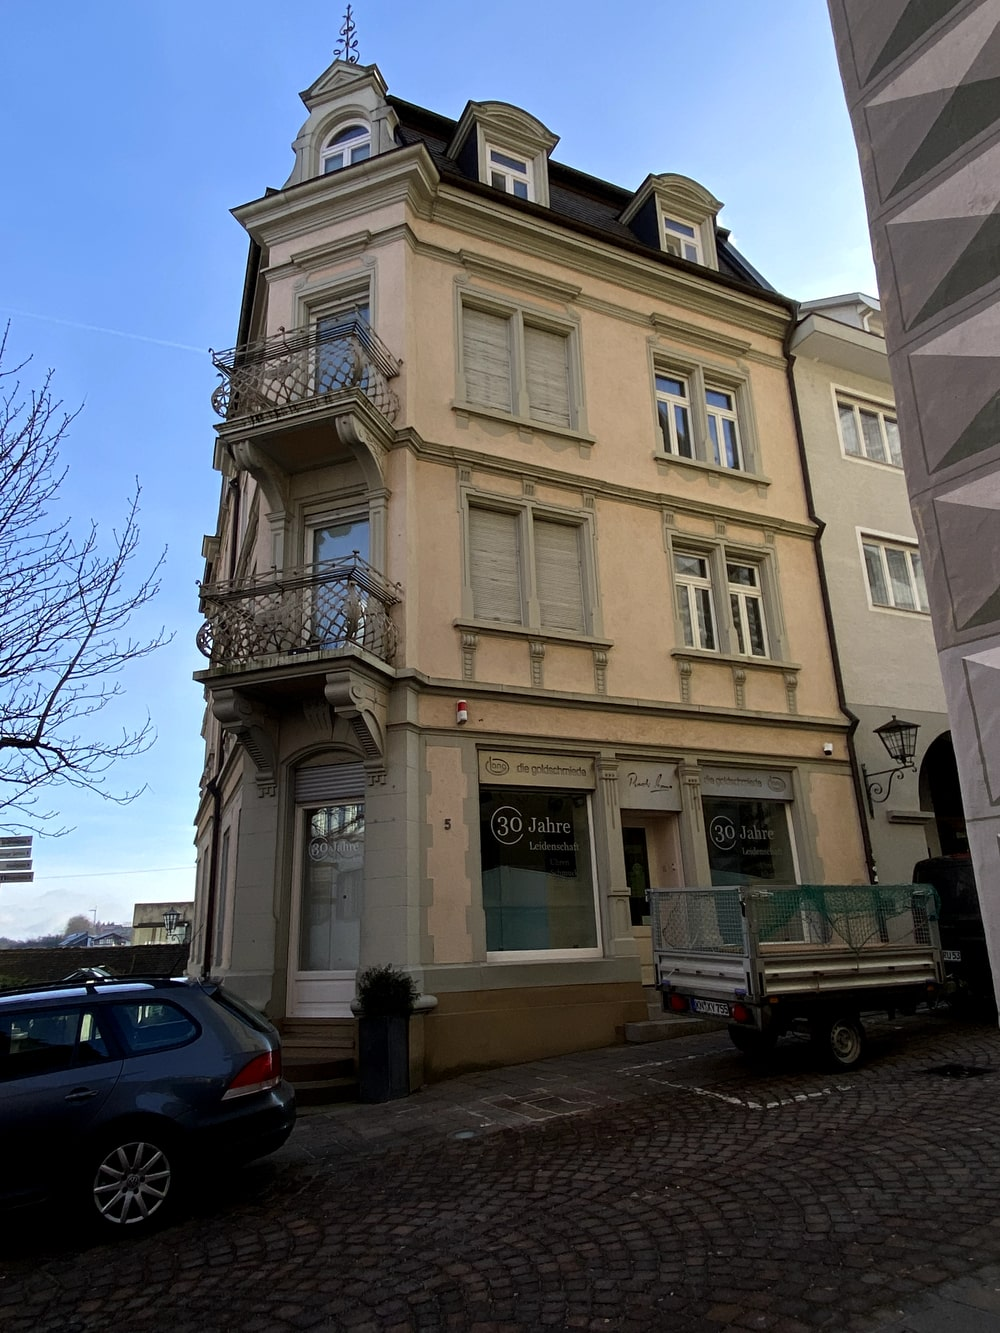
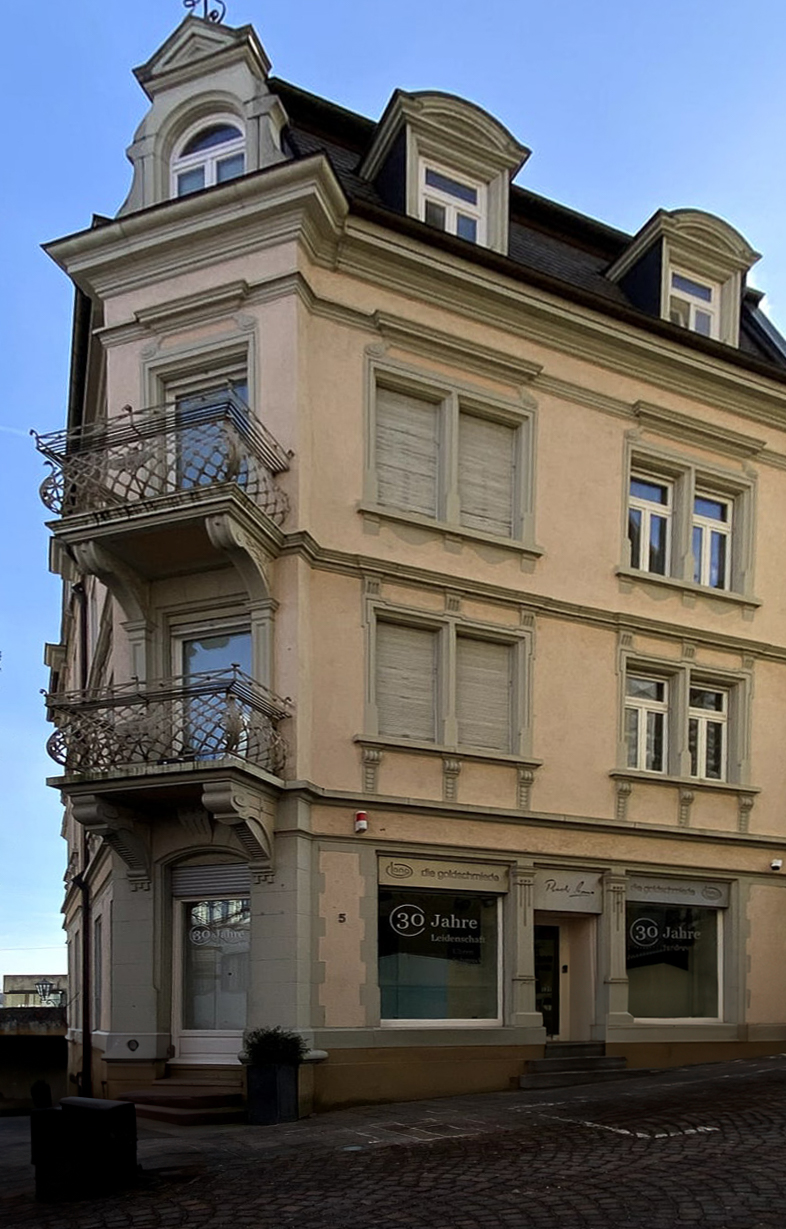
fixing preview photos

diff --git a/_site/index.html b/_site/index.html
@@ -19,7 +19,7 @@
         <div class="container-img">
             
             <a class="img-link" href="/posts/kornhaus-engen/">
-                <img id="transition-inside" class="carousel-item" src="/assets/images/post-1-img/post-1-img-1-1.jpg" alt="Ein altes Haus, welches scheunenähnlich ist und ein treppenartiges Dach hat.">
+                <img id="transition-inside" class="carousel-item" src="/assets/images/post-1-img/post-1-img-1-1.jpg" alt="Ein altes Haus, welches scheunenähnlich ist undein treppenartiges Dach hat.">
             </a>
             
         </div>
@@ -35,7 +35,7 @@
         <div class="container-img">
             
             <a class="img-link" href="/posts/golschmiede-lang-engen/">
-                <img id="transition-inside" class="carousel-item" src="/assets/images/post-3-img/jpg/post-3-img-1-1.jpg" alt="Ein hohes Eckgebäude. Im unteresten Stockwerk befindet sich ein Laden. Die Ecke ist wie abgeschnitten und dort befindet sihc der Eingang mit Stufen zum leerstehenden Geschäft.">
+                <img id="transition-inside" class="carousel-item" src="/assets/images/post-3-img/jpg/post-3-img-1.jpg" alt="Ein hohes Eckgebäude. Im unteresten Stockwerk befindet sich ein Laden. Die Ecke ist wie abgeschnitten und dort befindet sihc der Eingang mit Stufen zum leerstehenden Geschäft.">
             </a>
             
         </div>
@@ -43,7 +43,7 @@
         <div class="container-img">
             
             <a class="img-link" href="/posts/baeckerei-engen/">
-                <img id="transition-inside" class="carousel-item" src="/assets/images/post-4-img/jpg/post-4-img-1.jpg" alt="Ein rosafarbenes Eckhaus in einer Altstadt. Im untersten Stock ist ein Schaufenster, welches nach vorne raus steht. Rechts davon befindet sich der Eingang. Oben rechts ist eine Hausdekoration aus Metall mit einem Tier, dass eine Brezel vertilgt.">
+                <img id="transition-inside" class="carousel-item" src="/assets/images/post-4-img/jpg/post-4-img-1-2.jpg" alt="Ein rosafarbenes Eckhaus in einer Altstadt. Im untersten Stock ist ein Schaufenster, welches nach vorne raus steht. Rechts davon befindet sich der Eingang. Oben rechts ist eine Hausdekoration aus Metall mit einem Tier, dass eine Brezel vertilgt.">
             </a>
             
         </div>

diff --git a/_site/submit/index.html b/_site/submit/index.html
@@ -17,7 +17,7 @@
     <div class="carousel">
 <p><div class="container-img"></p>
 <p><a class="img-link" href="/posts/kornhaus-engen/">
-<img id="transition-inside" class="carousel-item" src="/assets/images/post-1-img/post-1-img-1-1.jpg" alt="Ein altes Haus, welches scheunenähnlich ist und ein treppenartiges Dach hat.">
+<img id="transition-inside" class="carousel-item" src="/assets/images/post-1-img/post-1-img-1-1.jpg" alt="Ein altes Haus, welches scheunenähnlich ist undein treppenartiges Dach hat.">
 </a></p>
 <p></div></p>
 <p><div class="container-img"></p>
@@ -27,12 +27,12 @@
 <p></div></p>
 <p><div class="container-img"></p>
 <p><a class="img-link" href="/posts/golschmiede-lang-engen/">
-<img id="transition-inside" class="carousel-item" src="/assets/images/post-3-img/jpg/post-3-img-1-1.jpg" alt="Ein hohes Eckgebäude. Im unteresten Stockwerk befindet sich ein Laden. Die Ecke ist wie abgeschnitten und dort befindet sihc der Eingang mit Stufen zum leerstehenden Geschäft.">
+<img id="transition-inside" class="carousel-item" src="/assets/images/post-3-img/jpg/post-3-img-1.jpg" alt="Ein hohes Eckgebäude. Im unteresten Stockwerk befindet sich ein Laden. Die Ecke ist wie abgeschnitten und dort befindet sihc der Eingang mit Stufen zum leerstehenden Geschäft.">
 </a></p>
 <p></div></p>
 <p><div class="container-img"></p>
 <p><a class="img-link" href="/posts/baeckerei-engen/">
-<img id="transition-inside" class="carousel-item" src="/assets/images/post-4-img/jpg/post-4-img-1.jpg" alt="Ein rosafarbenes Eckhaus in einer Altstadt. Im untersten Stock ist ein Schaufenster, welches nach vorne raus steht. Rechts davon befindet sich der Eingang. Oben rechts ist eine Hausdekoration aus Metall mit einem Tier, dass eine Brezel vertilgt.">
+<img id="transition-inside" class="carousel-item" src="/assets/images/post-4-img/jpg/post-4-img-1-2.jpg" alt="Ein rosafarbenes Eckhaus in einer Altstadt. Im untersten Stock ist ein Schaufenster, welches nach vorne raus steht. Rechts davon befindet sich der Eingang. Oben rechts ist eine Hausdekoration aus Metall mit einem Tier, dass eine Brezel vertilgt.">
 </a></p>
 <p></div></p>
 <p></div></p>

diff --git a/_site/success/index.html b/_site/success/index.html
@@ -17,7 +17,7 @@
     <div class="carousel">
 <p><div class="container-img"></p>
 <p><a class="img-link" href="/posts/kornhaus-engen/">
-<img id="transition-inside" class="carousel-item" src="/assets/images/post-1-img/post-1-img-1-1.jpg" alt="Ein altes Haus, welches scheunenähnlich ist und ein treppenartiges Dach hat.">
+<img id="transition-inside" class="carousel-item" src="/assets/images/post-1-img/post-1-img-1-1.jpg" alt="Ein altes Haus, welches scheunenähnlich ist undein treppenartiges Dach hat.">
 </a></p>
 <p></div></p>
 <p><div class="container-img"></p>
@@ -27,12 +27,12 @@
 <p></div></p>
 <p><div class="container-img"></p>
 <p><a class="img-link" href="/posts/golschmiede-lang-engen/">
-<img id="transition-inside" class="carousel-item" src="/assets/images/post-3-img/jpg/post-3-img-1-1.jpg" alt="Ein hohes Eckgebäude. Im unteresten Stockwerk befindet sich ein Laden. Die Ecke ist wie abgeschnitten und dort befindet sihc der Eingang mit Stufen zum leerstehenden Geschäft.">
+<img id="transition-inside" class="carousel-item" src="/assets/images/post-3-img/jpg/post-3-img-1.jpg" alt="Ein hohes Eckgebäude. Im unteresten Stockwerk befindet sich ein Laden. Die Ecke ist wie abgeschnitten und dort befindet sihc der Eingang mit Stufen zum leerstehenden Geschäft.">
 </a></p>
 <p></div></p>
 <p><div class="container-img"></p>
 <p><a class="img-link" href="/posts/baeckerei-engen/">
-<img id="transition-inside" class="carousel-item" src="/assets/images/post-4-img/jpg/post-4-img-1.jpg" alt="Ein rosafarbenes Eckhaus in einer Altstadt. Im untersten Stock ist ein Schaufenster, welches nach vorne raus steht. Rechts davon befindet sich der Eingang. Oben rechts ist eine Hausdekoration aus Metall mit einem Tier, dass eine Brezel vertilgt.">
+<img id="transition-inside" class="carousel-item" src="/assets/images/post-4-img/jpg/post-4-img-1-2.jpg" alt="Ein rosafarbenes Eckhaus in einer Altstadt. Im untersten Stock ist ein Schaufenster, welches nach vorne raus steht. Rechts davon befindet sich der Eingang. Oben rechts ist eine Hausdekoration aus Metall mit einem Tier, dass eine Brezel vertilgt.">
 </a></p>
 <p></div></p>
 <p></div></p>

diff --git a/_site/posts/baeckerei-engen/index.html b/_site/posts/baeckerei-engen/index.html
@@ -6,7 +6,7 @@
     <link rel="stylesheet" href="/assets/css/fonts.css">
     <link rel="stylesheet" href="/assets/css/style.css">
     <title>
-        Leerräume – Bäckerei
+        Leerräume – Bäckerei Waldschütz
     </title>
 </head>
 
@@ -15,7 +15,7 @@
         <section class="section-img-posts">
   <div 
     class="container-img-posts scrollable" 
-    data-images='["/assets/images/post-4-img/jpg/post-4-img-1.jpg","/assets/images/post-4-img/jpg/post-4-img-2.jpg","/assets/images/post-4-img/jpg/post-4-img-3.jpg","/assets/images/post-4-img/jpg/post-4-img-4.jpg","/assets/images/post-4-img/jpg/post-4-img-5.jpg"]'>
+    data-images='["/assets/images/post-4-img/jpg/post-4-img-1-2.jpg","/assets/images/post-4-img/jpg/post-4-img-2.jpg","/assets/images/post-4-img/jpg/post-4-img-3.jpg","/assets/images/post-4-img/jpg/post-4-img-4.jpg","/assets/images/post-4-img/jpg/post-4-img-5.jpg"]'>
   </div>
     <button class="btn btn-left">◄</button>
     <button class="btn btn-right">►</button>
@@ -27,13 +27,13 @@
 </button>
 <section class="section-text-posts">
     <h1 class="text-subpage title-subpage">
-      Bäckerei
+      Bäckerei Waldschütz
     <div class="container-text-posts">
         <p class="text-subpage details-text-subpage description-text-subpage">
         <strong>
         Engen.
         </strong>
-        Es waren für lange Zeit Bäckereien hier drin. Mitten in der Altstadt wird die Fläche nun zur Miete angeboten, aber scheinbar hat sich noch niemand gefunden, der darin etwas eröffnen möchte. Der Laden ist fast leer, nur eine Spüle befindet sich noch darin.</p>
+        Für eine lange Zeit war die Bäckerei Waldschütz hier dir. Die Filiale wurde 1939 aufgemacht und schloss 2023. Danach gab es noch eine andere Bäckerei darin, die nun aber schon wieder geschlossen hat. Mitten in der Altstadt wird die Fläche nun zur Miete angeboten, aber scheinbar hat sich noch niemand gefunden, der darin wieder etwas eröffnen möchte. Der Laden ist fast leer, nur eine Spüle befindet sich noch darin.</p>
     </div>
 </section> 
 <a href="/index.html" class="container-link-landing-page">

diff --git a/_site/posts/kornhaus-engen/index.html b/_site/posts/kornhaus-engen/index.html
@@ -33,7 +33,7 @@
         <strong>
         Engen.
         </strong>
-        Das Kornhaus ist ein historisches Gebäude der Engener Altstadt. Früher war es ein Kornspeicher, was auch die besondere Raumaufteilung erklärt. Hin und wieder finden dort Veranstaltungen statt. Ansonsten ist es geschlossen und es finden immer mal wieder Renovierungsarbeiten statt, die nötig sind, um es zu erhalten. Dadurch, dass es selten betretbar ist, hat es etwas ganz Besonderes, wenn das Kornhaus seine Türen öffnet. Es gehört der Stadt Engen und kann dort angefragt werden.</p>
+        Das Kornhaus, was früher auch unter »Haberhaus« bekannt war, ist ein historisches Gebäude, welches in der Zeit der Renaissance entstanden ist in der Engener Altstadt. Früher war es ein Kornspeicher, was auch die besondere Raumaufteilung erklärt. Im 19.&thinsp;Jahrhundert wurde es auch als Gerstenlager einer Brauerei genutzt. Es hat drei Stockwerke zur Straße hin, wobei das Oberste aus Sicherheitsgründen im Moment nicht mehr nutzbar ist. An der Außenwand befindet sich ein Erker, der mit Grimassenmasken verziert ist.  Hin und wieder finden dort Veranstaltungen statt. Ansonsten ist es geschlossen und es finden Immer mal wieder Sanierungsarbeiten statt, die nötig sind, um es zu erhalten. Es scheitert allerdings an der Suche für Investor*innen, die es bräuchte, um es wieder dauerhaft nutzbar zu machen. Dadurch, dass es selten betretbar ist, hat es etwas ganz Besonderes, wenn das Kornhaus seine Türen öffnet. Es gehört der Stadt Engen und kann dort angefragt werden.</p>
     </div>
 </section> 
 <a href="/index.html" class="container-link-landing-page">

diff --git a/_site/posts/metzgerei-mayer-engen/index.html b/_site/posts/metzgerei-mayer-engen/index.html
@@ -33,7 +33,7 @@
         <strong>
         Engen.
         </strong>
-        Die ehemalige Metzgerei Mayer befindet sich in der Altstadt in Engen. Innen ist noch die ehemlige Fleischtheke erhalten. Das Geschäft selber ist nicht groß und sieht aus wie eine klassische Metzgerei. Vielleicht sind auch die Hinterräume nutzbar. Der leerstehende Laden kann bei Familie Mayer direkt angefragt werden. In der Vergangeheit hat schon einmal eine Veranstaltungen in den leeren Räumen dort stattgefunden</p>
+        Die ehemalige Metzgerei Mayer befindet sich in der Altstadt in Engen. Innen ist noch die ehemlige Fleischtheke erhalten. Das Geschäft selber ist nicht groß und sieht aus wie eine klassische Metzgerei. Vielleicht sind auch die Hinterräume nutzbar. Der leerstehende Laden kann bei Familie Mayer direkt angefragt werden. In der Vergangeheit hat schon einmal eine Veranstaltungen in den leeren Räumen dort stattgefunden.</p>
     </div>
 </section> 
 <a href="/index.html" class="container-link-landing-page">

diff --git a/_site/posts/golschmiede-lang-engen/index.html b/_site/posts/golschmiede-lang-engen/index.html
@@ -15,7 +15,7 @@
         <section class="section-img-posts">
   <div 
     class="container-img-posts scrollable" 
-    data-images='["/assets/images/post-3-img/jpg/post-3-img-1-1.jpg","/assets/images/post-3-img/jpg/post-3-img-2.jpg","/assets/images/post-3-img/jpg/post-3-img-3.jpg"]'>
+    data-images='["/assets/images/post-3-img/jpg/post-3-img-1.jpg","/assets/images/post-3-img/jpg/post-3-img-2.jpg","/assets/images/post-3-img/jpg/post-3-img-3.jpg"]'>
   </div>
     <button class="btn btn-left">◄</button>
     <button class="btn btn-right">►</button>

diff --git a/_site/assets/css/style.css b/_site/assets/css/style.css
@@ -87,7 +87,7 @@ strong{
 
 .carousel-item {
   height: 70vh;
-  filter: sepia(0.1);
+  filter: sepia(0.2) hue-rotate(-5deg);
   transition: transform 0.2s ease, filter 0.5s ease;
 }
 

diff --git a/assets/css/style.css b/assets/css/style.css
@@ -87,7 +87,7 @@ strong{
 
 .carousel-item {
   height: 70vh;
-  filter: sepia(0.1);
+  filter: sepia(0.2) hue-rotate(-5deg);
   transition: transform 0.2s ease, filter 0.5s ease;
 }
 

diff --git a/posts/post-1.md b/posts/post-1.md
@@ -5,7 +5,7 @@ slug: "kornhaus-engen"
 ort: "Engen"
 plz: "78234"
 preview-image: "/assets/images/post-1-img/post-1-img-1-1.jpg"
-alt-text-preview-image: "Ein altes Haus, welches scheunenähnlich ist und ein treppenartiges Dach hat."
+alt-text-preview-image: "Ein altes Haus, welches scheunenähnlich ist undein treppenartiges Dach hat."
 images: 
   - "/assets/images/post-1-img/post-1-img-1-1.jpg"
   - "/assets/images/post-1-img/post-1-img-2.jpg"
@@ -23,7 +23,11 @@ images:
   - "/assets/images/post-1-img/post-1-img-14.jpg"
   - "/assets/images/post-1-img/post-1-img-15.jpg"
   - "/assets/images/post-1-img/post-1-img-16.jpg"
-description: "Das Kornhaus ist ein historisches Gebäude der Engener Altstadt. Früher war es ein Kornspeicher, was auch die besondere Raumaufteilung erklärt. Hin und wieder finden dort Veranstaltungen statt. Ansonsten ist es geschlossen und es finden immer mal wieder Renovierungsarbeiten statt, die nötig sind, um es zu erhalten. Dadurch, dass es selten betretbar ist, hat es etwas ganz Besonderes, wenn das Kornhaus seine Türen öffnet. Es gehört der Stadt Engen und kann dort angefragt werden."
+description: "Das Kornhaus, was früher auch unter »Haberhaus« bekannt war, ist ein historisches Gebäude, welches in der Zeit der Renaissance entstanden ist in der Engener Altstadt. Früher war es ein Kornspeicher, was auch die besondere Raumaufteilung erklärt. Im 19.&thinsp;Jahrhundert wurde es auch als Gerstenlager einer Brauerei genutzt. Es hat drei Stockwerke zur Straße hin, wobei das Oberste aus Sicherheitsgründen im Moment nicht mehr nutzbar ist. An der Außenwand befindet sich ein Erker, der mit Grimassenmasken verziert ist. 
+Hin und wieder finden dort Veranstaltungen statt. Ansonsten ist es geschlossen und es finden Immer mal wieder Sanierungsarbeiten statt, die nötig sind, um es zu erhalten. Es scheitert allerdings an der Suche für Investor*innen, die es bräuchte, um es wieder dauerhaft nutzbar zu machen. Dadurch, dass es selten betretbar ist, hat es etwas ganz Besonderes, wenn das Kornhaus seine Türen öffnet. Es gehört der Stadt Engen und kann dort angefragt werden."
+adress: "Hauptstraße 43&thinsp;a"
+construction-date: "1570"
+size: "circa 900m2"
 permalink: /posts/{{ slug }}/
 ---
 

diff --git a/posts/post-4.md b/posts/post-4.md
@@ -1,17 +1,19 @@
 ---
-title: "Bäckerei"
+title: "Bäckerei Waldschütz"
 layout: posts.md
 slug: "baeckerei-engen"
 ort: "Engen"
 plz: "78234"
-preview-image: "/assets/images/post-4-img/jpg/post-4-img-1.jpg"
+preview-image: "/assets/images/post-4-img/jpg/post-4-img-1-2.jpg"
 alt-text-preview-image: "Ein rosafarbenes Eckhaus in einer Altstadt. Im untersten Stock ist ein Schaufenster, welches nach vorne raus steht. Rechts davon befindet sich der Eingang. Oben rechts ist eine Hausdekoration aus Metall mit einem Tier, dass eine Brezel vertilgt."
 images: 
-  - "/assets/images/post-4-img/jpg/post-4-img-1.jpg"
+  - "/assets/images/post-4-img/jpg/post-4-img-1-2.jpg"
   - "/assets/images/post-4-img/jpg/post-4-img-2.jpg"
   - "/assets/images/post-4-img/jpg/post-4-img-3.jpg"
   - "/assets/images/post-4-img/jpg/post-4-img-4.jpg"
   - "/assets/images/post-4-img/jpg/post-4-img-5.jpg"
-description: "Es waren für lange Zeit Bäckereien hier drin. Mitten in der Altstadt wird die Fläche nun zur Miete angeboten, aber scheinbar hat sich noch niemand gefunden, der darin etwas eröffnen möchte. Der Laden ist fast leer, nur eine Spüle befindet sich noch darin."
+description: "Für eine lange Zeit war die Bäckerei Waldschütz hier dir. Die Filiale wurde 1939 aufgemacht und schloss 2023. Danach gab es noch eine andere Bäckerei darin, die nun aber schon wieder geschlossen hat. Mitten in der Altstadt wird die Fläche nun zur Miete angeboten, aber scheinbar hat sich noch niemand gefunden, der darin wieder etwas eröffnen möchte. Der Laden ist fast leer, nur eine Spüle befindet sich noch darin."
+adress: "Klostergasse 2"
+size: "circa 60m2"
 permalink: /posts/{{ slug }}/
 ---

diff --git a/posts/post-2.md b/posts/post-2.md
@@ -11,6 +11,8 @@ images:
   - "/assets/images/post-2-img/jpg/post-2-img-2.jpg"
   - "/assets/images/post-2-img/jpg/post-2-img-3.jpg"
   - "/assets/images/post-2-img/jpg/post-2-img-4.jpg"
-description: "Die ehemalige Metzgerei Mayer befindet sich in der Altstadt in Engen. Innen ist noch die ehemlige Fleischtheke erhalten. Das Geschäft selber ist nicht groß und sieht aus wie eine klassische Metzgerei. Vielleicht sind auch die Hinterräume nutzbar. Der leerstehende Laden kann bei Familie Mayer direkt angefragt werden. In der Vergangeheit hat schon einmal eine Veranstaltungen in den leeren Räumen dort stattgefunden"
+description: "Die ehemalige Metzgerei Mayer befindet sich in der Altstadt in Engen. Innen ist noch die ehemlige Fleischtheke erhalten. Das Geschäft selber ist nicht groß und sieht aus wie eine klassische Metzgerei. Vielleicht sind auch die Hinterräume nutzbar. Der leerstehende Laden kann bei Familie Mayer direkt angefragt werden. In der Vergangeheit hat schon einmal eine Veranstaltungen in den leeren Räumen dort stattgefunden."
+adress: "Hauptstraße 16"
+size: "Verkaufsraum circa 50m2"
 permalink: /posts/{{ slug }}/
 ---
